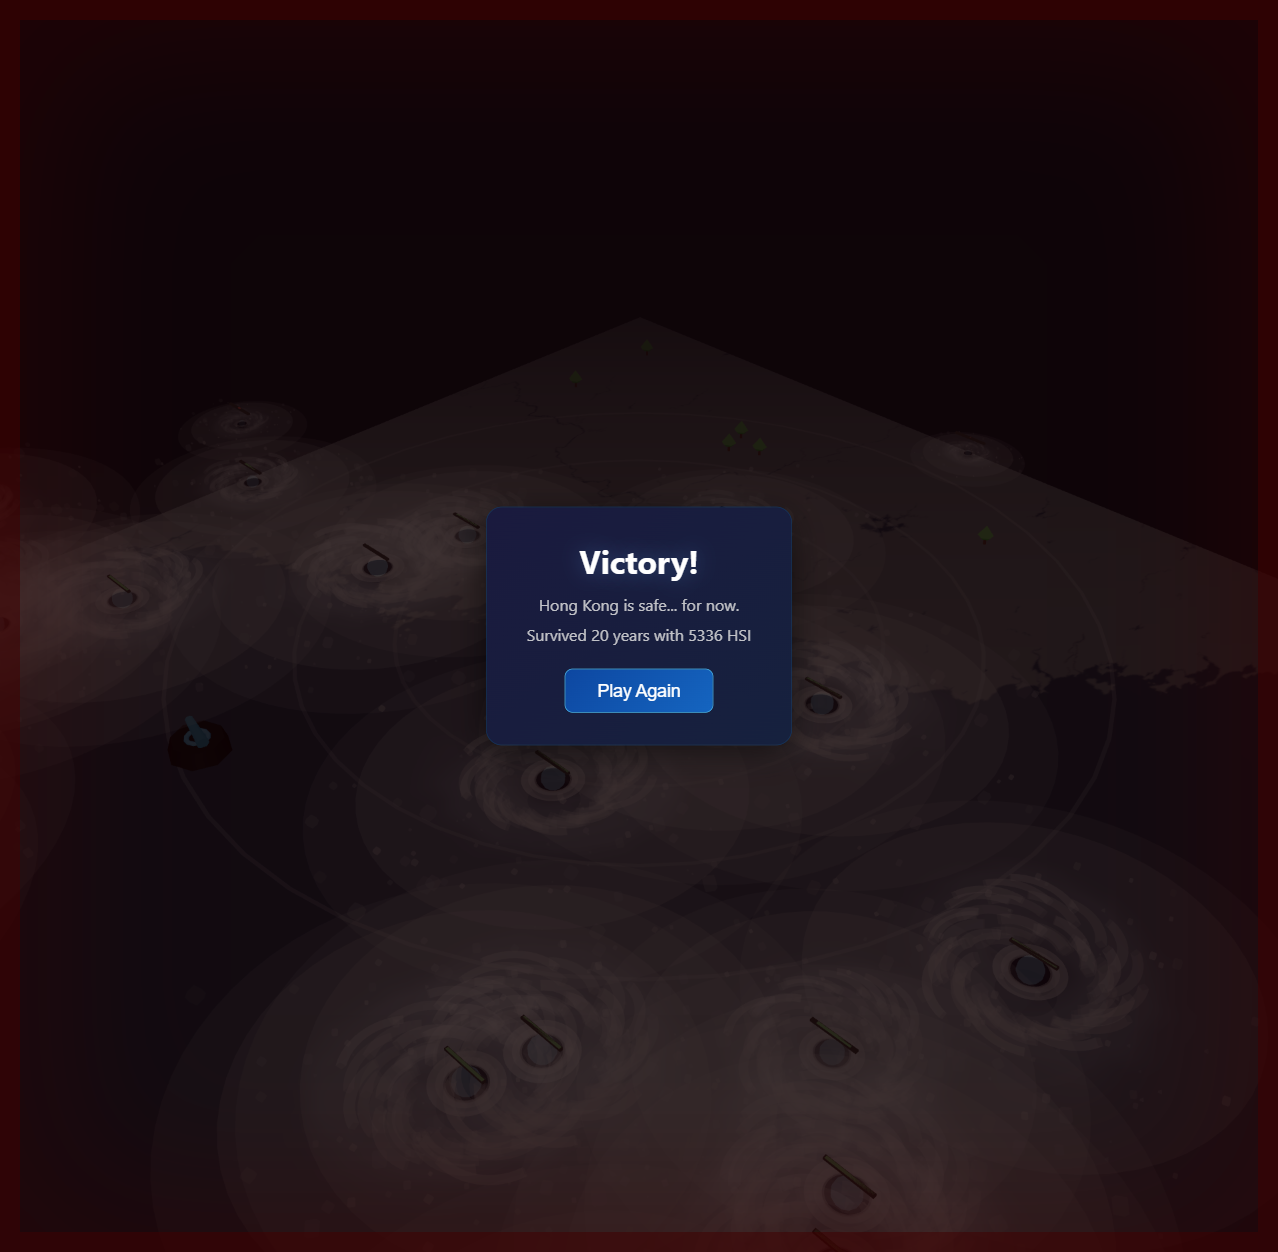
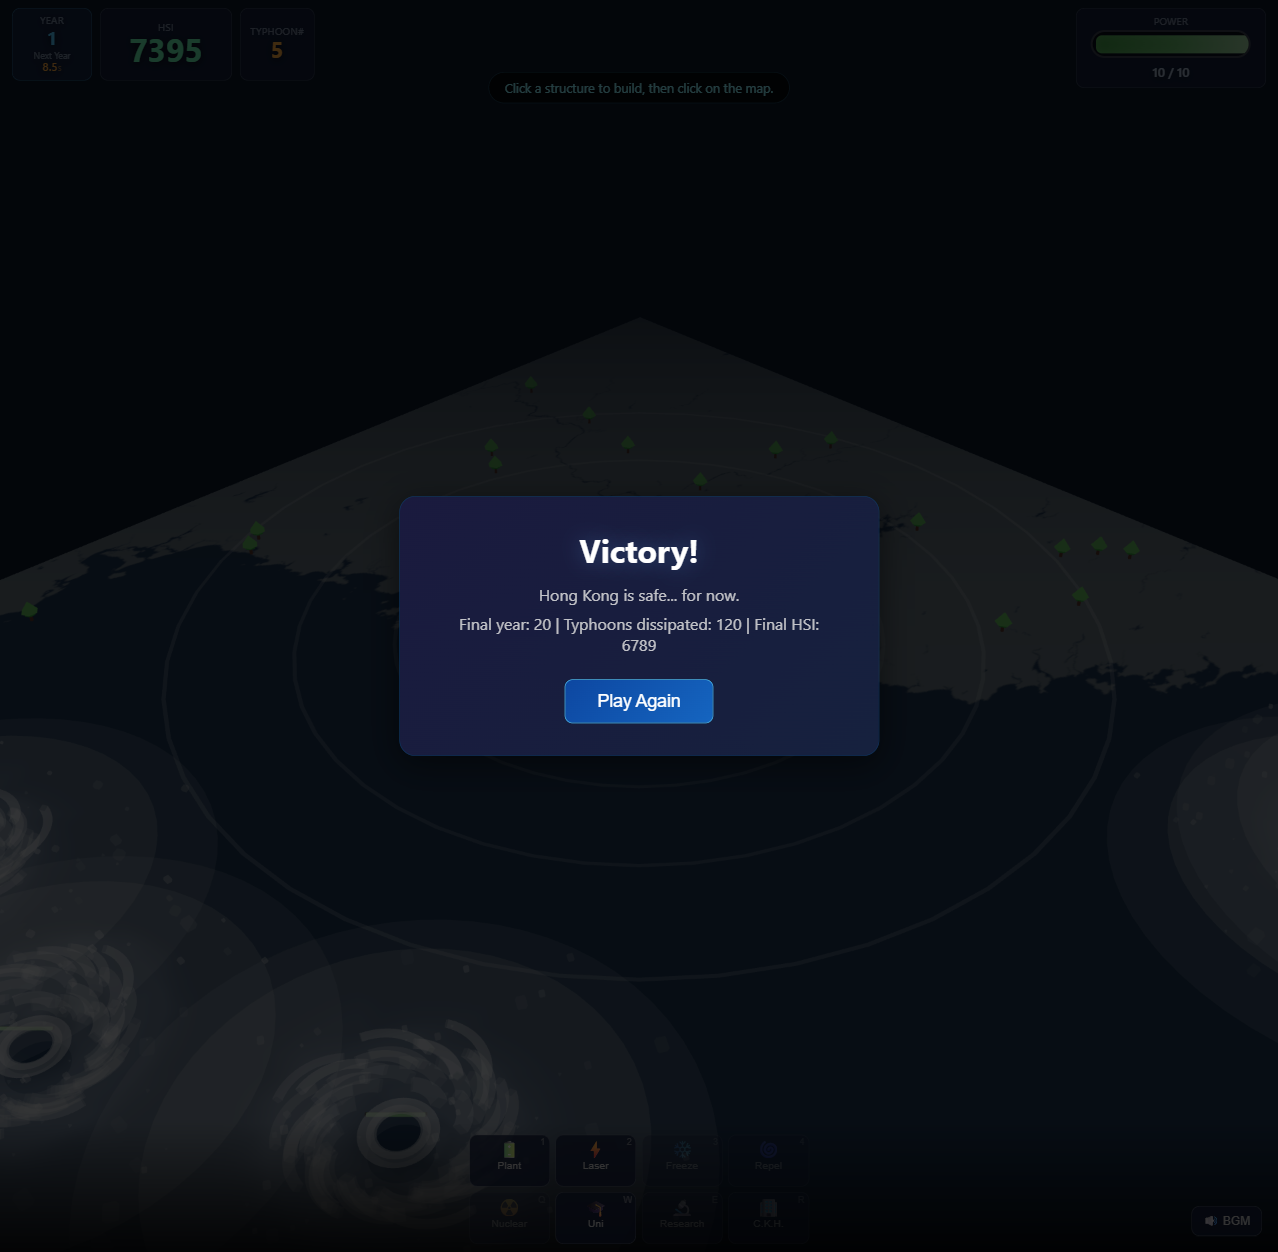
Update Typhoon Tycoon README screenshots
Refresh menu, action, game-over, and victory screenshots and document the updated camera controls, structure showcase, typhoon HP bars, and differentiated tower attack visuals.

LLM-Model: gpt-5.5 (GPT-5.5)

diff --git a/games/typhoon-tycoon/README.md b/games/typhoon-tycoon/README.md
@@ -10,7 +10,7 @@ A 2.5D browser-based tower defense game rebuilt in Three.js, inspired by the ori
 *Start screen with the Hong Kong / South China Sea map and concentric danger zone rings.*
 
 ![In-Game Action](assets/screenshots/action.png)
-*All 8 structure types deployed (Laser/Freeze/Repel Towers, Power/University/Research/Nuclear Plants, CheungKong HQ) defending against realistic 3D typhoons with dark calm eyes, bright eyewalls, asymmetric spiral rainbands, and multi-layer particle systems.*
+*All 8 structure types deployed at real in-game placement scale/rules (Laser/Freeze/Repel Towers, Power/University/Research/Nuclear Plants, CheungKong HQ) defending against realistic 3D typhoons with empty eyes, bright eyewalls, asymmetric spiral rainbands, camera-facing HP bars, and multi-layer particle systems.*
 
 ![Game Over](assets/screenshots/lose.png)
 *Game over screen shown when HSI drops to zero — the economy has collapsed.*
@@ -59,12 +59,12 @@ src/
 ```
 
 ### Curved Trajectories
-Each typhoon follows a **sinusoidal wobble path** instead of a straight line toward center. The wobble amplitude is randomized per enemy and decays as it approaches the island, creating natural-looking spiral approaches like real storm tracks.
+Each typhoon follows a **sinusoidal wobble path** instead of a straight line toward center. The wobble amplitude is randomized per typhoon and decays as it approaches the island, creating natural-looking spiral approaches like real storm tracks.
 
 ### Attack VFX
-- **Laser Towers** fire instant beam lines from the turret barrel to the typhoon body, followed by a particle burst at the impact point
-- **Freeze Towers** apply a constant slow beam (cyan) and keep enemies chilled while in range
-- **Repel Towers** push enemies away with an orange beam and force impulse
+- **Laser Towers** fire instant glowing yellow beams from the turret barrel to the typhoon body, without bead/dot artifacts along the beam
+- **Freeze Towers** apply a thicker icy cyan beam and leave fading aftershadow trails when the target direction changes
+- **Repel Towers** push typhoons away with expanding orange psychic rings that travel toward the storm instead of a straight beam
 - Kill explosions release a 12-particle burst
 
 ## Background
@@ -89,11 +89,13 @@ In the year 21XX, the Li's field (李氏力場) becomes reality in the form of a
 | `R` | Select Li's Enterprise HQ |
 | `Esc` | Cancel selection |
 | Click on map | Place selected structure |
+| Hold right mouse + drag | Orbit camera around Hong Kong |
+| Mouse wheel | Zoom camera in/out with safe limits |
 
 ### UI Elements
 
 - **Bottom toolbar (4×2 grid):** Structure buttons in two rows — towers on top row, buildings on bottom. Cancel button appears only when a structure is selected.
-- **Top-left HUD:** Year with countdown below, HSI, Enemies remaining
+- **Top-left HUD:** Year with countdown below, HSI, TYPHOON# remaining
 - **Top-right HUD:** Power meter with battery-style UI
 - **Map:** South China Sea / Hong Kong region with concentric danger zone rings
 
@@ -101,15 +103,15 @@ In the year 21XX, the Li's field (李氏力場) becomes reality in the form of a
 
 Each year intensifies as the typhoons grow stronger:
 
-| Year | Enemies | Spawn Interval | Notes |
+| Year | Typhoons | Spawn Interval | Notes |
 |------|---------|----------------|-------|
 | 1 | 3 | 10.5s | First wave — gentle start |
-| 5 | 13 | 8.5s | Enemies per year ramps up linearly |
+| 5 | 13 | 8.5s | Typhoons per year ramp up linearly |
 | 10 | 23 | 6.0s | Mid-game, pace quickens |
-| 15 | 30 | 3.5s | Max enemies per year reached |
+| 15 | 30 | 3.5s | Max typhoons per year reached |
 | 20 | 30 | 1.5s | Final year — maximum intensity |
 
-- Enemy HP and speed also increase with each year
+- Typhoon HP and speed also increase with each year
 - The cooldown between years shortens as the game progresses (starts at 10s, drops to 1.5s by year 20)
 - The top-right **Next Year** countdown shows remaining seconds until the next year begins
 - Survive all 20 years to win — you have defended Hong Kong from the typhoons!
@@ -121,8 +123,8 @@ Each year intensifies as the typhoons grow stronger:
 | Tower | Cost | Power | Effect |
 |-------|------|-------|--------|
 | **Laser Tower** | 500 HSI | -3 | Direct damage (25 dmg, 0.5s interval) |
-| **Freeze Tower** | 700 HSI | -6 | Slows enemies (requires University) |
-| **Repel Tower** | 2500 HSI | -10 | Pushes enemies away (requires Research Center) |
+| **Freeze Tower** | 700 HSI | -6 | Slows typhoons (requires University) |
+| **Repel Tower** | 2500 HSI | -10 | Pushes typhoons away (requires Research Center) |
 
 ### Buildings (place on land)
 
@@ -131,7 +133,7 @@ Each year intensifies as the typhoons grow stronger:
 | **Power Plant** | 1000 HSI | +10 | Generates power |
 | **University** | 2500 HSI | -20 | Unlocks Freeze Tower, boosts tower damage |
 | **Research Center** | 4000 HSI | -30 | Unlocks Repel Tower & Nuclear Plant, further damage boost (requires University) |
-| **Nuclear Power Plant** | 5000 HSI | +40 | High-output power (requires Research Center) |
+| **Nuclear Power Plant** | 5000 HSI | +40 | Thin curved cooling-tower cylinder with a large open through-hole and heavier smoke (requires Research Center) |
 | **Li's Enterprise HQ** | 7000 HSI | -50 | 1.5x HSI passive income (requires Research Center) |
 
 ### Power Management
